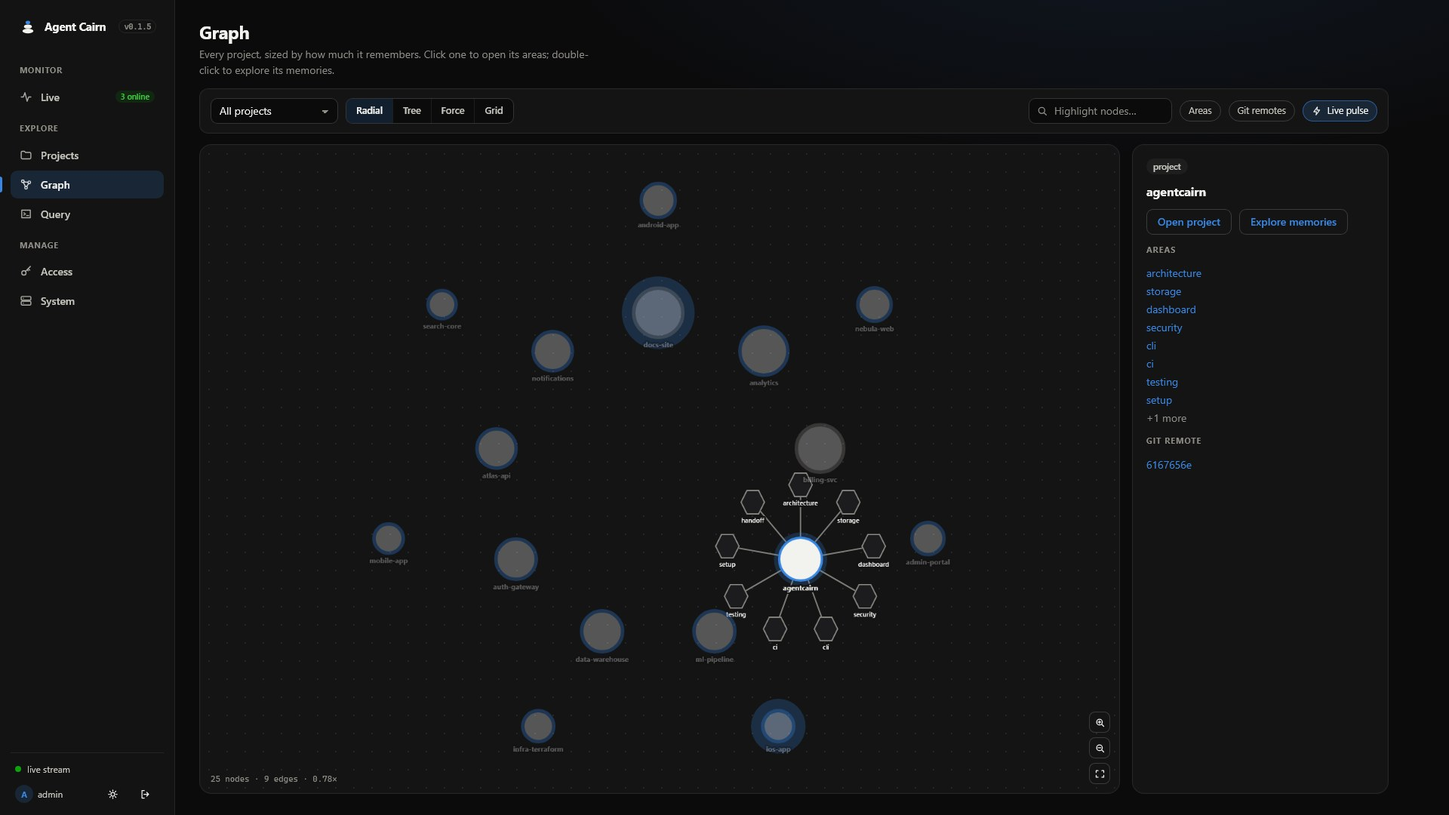
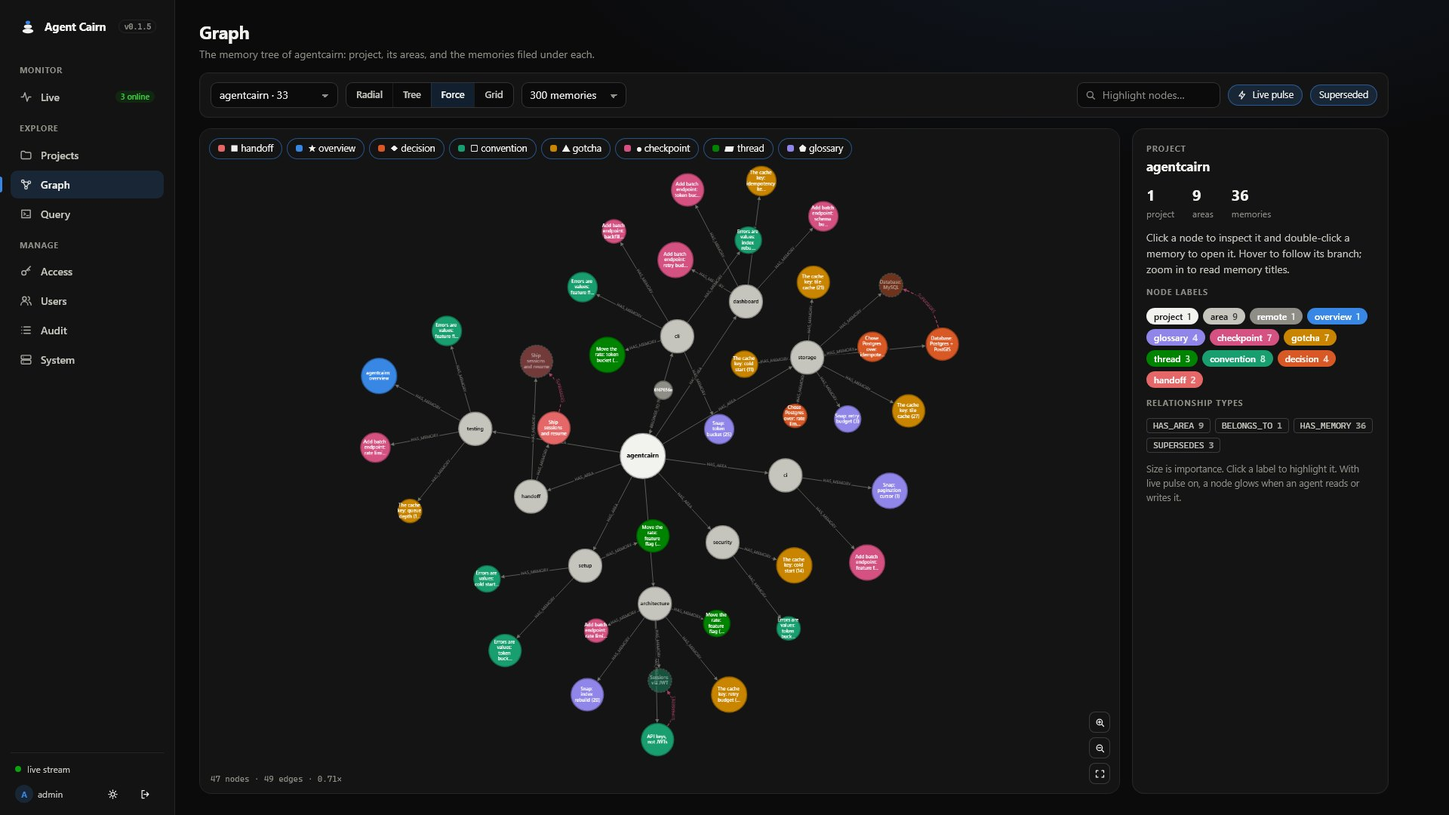
Neo4j-style graph, handoff without an entry limit, init message only when something is missing

diff --git a/packages/mcp-server/ui/js/views/graph.js b/packages/mcp-server/ui/js/views/graph.js
@@ -8,7 +8,6 @@ const KIND_VAR = { handoff: '--s8', overview: '--s1', decision: '--s2', conventi
 const KIND_SHAPE = { handoff: 'octagon', overview: 'star', decision: 'diamond', convention: 'round-rectangle', gotcha: 'triangle', checkpoint: 'ellipse', thread: 'round-tag', glossary: 'pentagon' }
 const KIND_GLYPH = { handoff: '◼', overview: '★', decision: '◆', convention: '▢', gotcha: '▲', checkpoint: '●', thread: '▰', glossary: '⬟' }
 const WRITE_TOOLS = new Set(['cairn_remember', 'cairn_checkpoint', 'cairn_handoff', 'cairn_forget'])
-const LABEL_ZOOM = 1.15
 
 const css = name => getComputedStyle(document.documentElement).getPropertyValue(name).trim()
 
@@ -23,35 +22,59 @@ function loadCytoscape() {
   })
 }
 
+/** Black or white caption, whichever reads better on this fill. */
+function inkOn(color) {
+  const m = /^#?([0-9a-f]{6})$/i.exec(color.trim())
+  if (!m) return '#ffffff'
+  const [r, g, b] = [0, 2, 4].map(i => parseInt(m[1].slice(i, i + 2), 16) / 255).map(c => (c <= 0.03928 ? c / 12.92 : ((c + 0.055) / 1.055) ** 2.4))
+  return 0.2126 * r + 0.7152 * g + 0.0722 * b > 0.3 ? '#141415' : '#ffffff'
+}
+/** The fill colour of a kind, project or area: what the chips in the side panel use too. */
+export function nodeColor(type, kind) {
+  if (type === 'project') return css('--text')
+  if (type === 'area') return css('--text-2')
+  if (type === 'remote') return css('--muted')
+  return css(KIND_VAR[kind] ?? '--s1')
+}
+/** Mixes two #rrggbb colours (cytoscape does not understand color-mix). */
+function mix(a, b, amount) {
+  const p = c => [1, 3, 5].map(i => parseInt(c.replace('#', '').padEnd(6, '0').slice(i - 1, i + 1), 16))
+  const [x, y] = [p(a), p(b)]
+  return `#${x.map((v, i) => Math.round(v + (y[i] - v) * amount).toString(16).padStart(2, '0')).join('')}`
+}
+const shorten = (text, max) => (text.length > max ? `${text.slice(0, max - 1).trimEnd()}…` : text)
+
 function stylesheet() {
-  const text = css('--text')
   const surface = css('--surface')
-  const axis = css('--axis')
   const muted = css('--muted')
   const accent = css('--s1')
   const pink = css('--s5')
+  const page = css('--page')
+  const circle = (type, kind) => {
+    const fill = nodeColor(type, kind)
+    return { 'background-color': fill, color: type === 'project' || type === 'area' ? page : inkOn(fill), 'border-color': mix(fill, type === 'project' || type === 'area' ? page : '#000000', 0.3) }
+  }
   return [
-    { selector: 'node', style: { 'font-size': 11, color: text, 'font-family': css('--sans'), 'text-valign': 'bottom', 'text-margin-y': 6, 'text-wrap': 'ellipsis', 'text-max-width': 130, 'text-outline-color': surface, 'text-outline-width': 3, 'border-width': 0, 'overlay-opacity': 0, 'underlay-color': accent, 'underlay-opacity': 0, 'underlay-padding': 6, 'underlay-shape': 'ellipse', label: '' } },
-    { selector: 'node[type="project"]', style: { label: 'data(label)', shape: 'ellipse', width: 64, height: 64, 'background-color': text, 'border-width': 6, 'border-color': accent, 'font-size': 13, 'font-weight': 700, 'text-max-width': 180, 'text-margin-y': 8, 'z-index': 10 } },
-    { selector: 'node[type="area"]', style: { label: 'data(label)', shape: 'hexagon', width: 40, height: 40, 'background-color': css('--raised'), 'border-width': 2, 'border-color': muted, 'font-weight': 600, 'z-index': 5 } },
-    { selector: 'node[type="remote"]', style: { shape: 'round-rectangle', width: 14, height: 14, 'background-color': muted, 'font-size': 10, color: muted } },
-    { selector: 'node[type="memory"]', style: { width: 'mapData(importance, 1, 5, 15, 32)', height: 'mapData(importance, 1, 5, 15, 32)', 'border-width': 1.5, 'border-color': surface } },
-    ...KINDS.map(kind => ({ selector: `node[kind="${kind}"]`, style: { 'background-color': css(KIND_VAR[kind]), shape: KIND_SHAPE[kind] } })),
-    { selector: 'node[status="superseded"]', style: { opacity: 0.42, 'border-style': 'dashed', 'border-color': muted, 'border-width': 2 } },
-    { selector: 'node.lbl', style: { label: 'data(label)' } },
-    { selector: 'edge', style: { width: 1.2, 'line-color': axis, 'curve-style': 'bezier', opacity: 0.85 } },
-    { selector: 'edge[type="HAS_AREA"]', style: { width: 2.4, 'line-color': muted } },
-    { selector: 'edge[type="BELONGS_TO"]', style: { 'line-style': 'dotted', 'line-color': muted } },
-    { selector: 'edge[type="SUPERSEDES"]', style: { 'line-style': 'dashed', 'line-color': pink, 'target-arrow-shape': 'triangle', 'target-arrow-color': pink, 'arrow-scale': 1.1, width: 1.8, 'curve-style': 'unbundled-bezier' } },
-    { selector: '.dim', style: { opacity: 0.1 } },
-    { selector: '.match', style: { 'border-width': 4, 'border-color': css('--warn-text'), label: 'data(label)' } },
+    { selector: 'node', style: { shape: 'ellipse', label: 'data(caption)', 'font-size': 9, 'font-weight': 600, color: '#fff', 'font-family': css('--sans'), 'text-valign': 'center', 'text-halign': 'center', 'text-wrap': 'wrap', 'text-max-width': 46, 'line-height': 1.15, 'min-zoomed-font-size': 7, 'border-width': 2, 'overlay-opacity': 0, 'underlay-color': accent, 'underlay-opacity': 0, 'underlay-padding': 6, 'underlay-shape': 'ellipse' } },
+    { selector: 'node[type="project"]', style: { ...circle('project'), width: 84, height: 84, 'font-size': 12, 'font-weight': 700, 'text-max-width': 70, 'z-index': 10 } },
+    { selector: 'node[type="area"]', style: { ...circle('area'), width: 62, height: 62, 'font-size': 10, 'text-max-width': 52, 'z-index': 5 } },
+    { selector: 'node[type="remote"]', style: { ...circle('remote'), width: 34, height: 34, 'font-size': 8, 'text-max-width': 30 } },
+    { selector: 'node[type="memory"]', style: { width: 'mapData(importance, 1, 5, 44, 66)', height: 'mapData(importance, 1, 5, 44, 66)', 'text-max-width': 48 } },
+    ...KINDS.map(kind => ({ selector: `node[kind="${kind}"]`, style: circle('memory', kind) })),
+    { selector: 'node[status="superseded"]', style: { opacity: 0.45, 'border-style': 'dashed', 'border-color': muted, 'border-width': 2 } },
+    { selector: 'edge', style: { width: 1.1, 'line-color': muted, opacity: 0.75, 'curve-style': 'bezier', 'target-arrow-shape': 'triangle', 'target-arrow-color': muted, 'arrow-scale': 0.8, label: 'data(type)', 'font-size': 8, color: muted, 'font-family': css('--sans'), 'text-rotation': 'autorotate', 'text-background-color': surface, 'text-background-opacity': 1, 'text-background-padding': 2, 'min-zoomed-font-size': 8, 'text-margin-y': -1 } },
+    { selector: 'edge[type="BELONGS_TO"]', style: { 'line-style': 'dotted' } },
+    { selector: 'edge[type="SUPERSEDES"]', style: { 'line-style': 'dashed', 'line-color': pink, 'target-arrow-color': pink, color: pink, width: 1.6, 'curve-style': 'unbundled-bezier' } },
+    { selector: '.dim', style: { opacity: 0.12 } },
+    { selector: '.match', style: { 'border-width': 4, 'border-color': css('--warn-text'), 'underlay-color': css('--warn-text'), 'underlay-opacity': 0.25, 'underlay-padding': 7 } },
     { selector: '.hidden', style: { display: 'none' } },
     { selector: '.collapsed', style: { display: 'none' } },
-    { selector: 'node[type="project"].sized', style: { width: 'mapData(memories, 0, 60, 40, 100)', height: 'mapData(memories, 0, 60, 40, 100)', 'font-size': 12, 'text-max-width': 120 } },
-    { selector: 'node[type="project"].quiet', style: { 'border-color': muted, opacity: 0.78 } },
-    { selector: 'node[type="project"].away', style: { opacity: 0.3 } },
-    { selector: 'node[type="project"].open', style: { 'border-color': css('--s3'), 'underlay-opacity': 0.14, 'underlay-padding': 12 } },
-    { selector: ':selected', style: { 'border-width': 4, 'border-color': accent, 'underlay-opacity': 0.22, 'underlay-padding': 9, label: 'data(label)' } },
+    { selector: 'node[type="project"].sized', style: { width: 'mapData(memories, 0, 120, 104, 160)', height: 'mapData(memories, 0, 120, 104, 160)', 'font-size': 12, 'text-max-width': 90 } },
+    { selector: 'node[type="project"].quiet', style: { opacity: 0.6 } },
+    { selector: 'node[type="project"].away', style: { opacity: 0.25 } },
+    { selector: 'node[type="project"].open', style: { 'underlay-opacity': 0.16, 'underlay-padding': 12 } },
+    { selector: ':selected', style: { 'border-width': 3, 'border-color': accent, 'underlay-opacity': 0.28, 'underlay-padding': 9 } },
+    { selector: 'edge:selected', style: { width: 2.2, 'line-color': accent, 'target-arrow-color': accent, opacity: 1 } },
   ]
 }
 
@@ -60,12 +83,12 @@ function layoutOptions(cy, name, overview = false) {
   const roots = cy.nodes('[type="project"]')
   switch (name) {
     case 'radial':
-      if (overview) return { name: 'concentric', concentric: n => n.data('memories') ?? 0, levelWidth: () => 25, minNodeSpacing: 70, spacingFactor: 1.2, avoidOverlap: true, padding: 40, animate: false }
+      if (overview) return { name: 'concentric', concentric: n => n.data('memories') ?? 0, levelWidth: () => 25, minNodeSpacing: 90, spacingFactor: 1.3, avoidOverlap: true, padding: 40, animate: false }
       return { name: 'breadthfirst', roots, circle: true, directed: false, spacingFactor: 1.05, avoidOverlap: true, padding: 40, animate: false }
     case 'tree':
       return { name: 'breadthfirst', roots, circle: false, directed: false, spacingFactor: 1.15, avoidOverlap: true, padding: 40, animate: false }
     case 'force':
-      return { name: 'cose', animate: false, randomize: true, nodeRepulsion: 12000, idealEdgeLength: 90, nodeOverlap: 24, gravity: 0.45, numIter: 1200, padding: 40 }
+      return { name: 'cose', animate: false, randomize: true, nodeRepulsion: 16000, idealEdgeLength: 110, nodeOverlap: 30, gravity: 0.35, numIter: 1200, nodeDimensionsIncludeLabels: false, padding: 40 }
     default:
       return { name: 'grid', animate: false, padding: 40, avoidOverlap: true }
   }
@@ -78,7 +101,7 @@ const QUIET_AFTER_DAYS = 21
 export async function mount(container, { query, navigate }) {
   const [{ projects }] = await Promise.all([api('projects'), loadCytoscape()])
   let project = query.project ?? ''
-  let layoutName = 'radial'
+  let layoutName = query.project ? 'force' : 'radial'
   let limit = 300
   let pulseOn = true
   let showSuperseded = true
@@ -160,7 +183,8 @@ export async function mount(container, { query, navigate }) {
   )
 
   // ---- graph ---------------------------------------------------------------
-  const element = n => ({ group: 'nodes', data: { ...n.data, mid: n.data.id, id: n.id, label: n.label, type: n.type } })
+  const caption = n => (n.type === 'project' ? shorten(n.label, 18) : n.type === 'area' ? shorten(n.label, 14) : n.type === 'remote' ? shorten(n.label, 8) : shorten(n.label, 30))
+  const element = n => ({ group: 'nodes', data: { ...n.data, mid: n.data.id, id: n.id, label: n.label, caption: caption(n), type: n.type } })
   const edgeEl = e => ({ group: 'edges', data: { id: e.id, source: e.source, target: e.target, type: e.type } })
 
   function runLayout(doFit) {
@@ -182,18 +206,13 @@ export async function mount(container, { query, navigate }) {
     const edges = cy.edges().filter(e => shown(e.source()) && shown(e.target())).length
     hudEl.textContent = `${nodes} nodes · ${edges} edges · ${cy.zoom().toFixed(2)}×`
   }
-  function syncLabels() {
-    if (!cy) return
-    const show = cy.zoom() >= LABEL_ZOOM
-    cy.nodes('[type="memory"]').toggleClass('lbl', show)
-  }
 
   /** The areas of a project fan out around it; everything else stays put. */
   function expand(node, animate = true) {
     if (node.data('type') !== 'project') return
     const areas = node.outgoers('node[type="area"]')
     const center = node.position()
-    const radius = 64 + areas.length * 7
+    const radius = 84 + areas.length * 8
     areas.forEach((a, i) => {
       const angle = (2 * Math.PI * i) / Math.max(areas.length, 1) - Math.PI / 2
       const spot = { x: center.x + radius * Math.cos(angle), y: center.y + radius * Math.sin(angle) }
@@ -294,11 +313,10 @@ export async function mount(container, { query, navigate }) {
       if (search.input.value.trim()) return
       const around = e.target.closedNeighborhood()
       cy.elements().not(around).addClass('dim')
-      around.nodes('[type="memory"]').addClass('lbl')
     })
-    cy.on('mouseout', 'node', () => { if (!search.input.value.trim()) { cy.elements().removeClass('dim'); syncLabels() } })
+    cy.on('mouseout', 'node', () => { if (!search.input.value.trim()) { cy.elements().removeClass('dim') } })
     cy.on('dbltap', 'node[type="memory"]', e => openMemory(project, e.target.data('mid'), navigate))
-    cy.on('zoom', debounce(() => { syncLabels(); hud() }, 60))
+    cy.on('zoom', debounce(hud, 60))
 
     drawSide(null, graph)
     if (!project && query.focus) {
@@ -333,7 +351,7 @@ export async function mount(container, { query, navigate }) {
           const parent = graph.edges.map(e => (e.target === n.id ? e.source : e.source === n.id ? e.target : null)).find(id => id && cy.getElementById(id).nonempty())
           const origin = parent ? cy.getElementById(parent).position() : { x: cy.width() / 2, y: cy.height() / 2 }
           fresh.push(cy.add({ ...element(n), position: { x: origin.x + (Math.random() - 0.5) * 80, y: origin.y + (Math.random() - 0.5) * 80 } }))
-        } else existing.data({ ...n.data, mid: n.data.id, label: n.label })
+        } else existing.data({ ...n.data, mid: n.data.id, label: n.label, caption: caption(n) })
       }
       cy.nodes().forEach(n => { if (!incoming.has(n.id())) n.remove() })
       const ids = new Set(graph.edges.map(e => e.id))
@@ -350,7 +368,6 @@ export async function mount(container, { query, navigate }) {
       for (const n of fresh) setTimeout(() => pulse(n), 650)
     }
     applyFilters()
-    syncLabels()
     hud()
   }
 
@@ -375,6 +392,47 @@ export async function mount(container, { query, navigate }) {
     return groups
   }
 
+  /** Like Neo4j Browser's overview: one coloured pill per node label and one per relationship type. */
+  let focusedLabel = null
+  function highlightLabel(name) {
+    if (!cy) return
+    focusedLabel = focusedLabel === name ? null : name
+    cy.batch(() => {
+      cy.elements().removeClass('dim')
+      if (!focusedLabel) return
+      const hits = cy.nodes().filter(n => (n.data('type') === 'memory' ? n.data('kind') : n.data('type')) === focusedLabel)
+      cy.elements().not(hits).addClass('dim')
+    })
+    drawSide(null)
+  }
+  function labelChips() {
+    if (!cy) return []
+    const counts = new Map()
+    for (const n of cy.nodes()) {
+      const name = n.data('type') === 'memory' ? n.data('kind') : n.data('type')
+      const entry = counts.get(name) ?? { n: 0, type: n.data('type'), kind: n.data('kind') }
+      entry.n += 1
+      counts.set(name, entry)
+    }
+    return [...counts].map(([name, c]) => {
+      const fill = nodeColor(c.type, c.kind)
+      return h('button', { type: 'button', class: 'nlabel', 'aria-pressed': String(focusedLabel === name), style: { background: fill, color: inkOn(fill) }, onclick: () => highlightLabel(name) }, name, h('span', { class: 'n' }, fmt.int(c.n)))
+    })
+  }
+  function relationshipChips() {
+    if (!cy) return []
+    const counts = new Map()
+    for (const e of cy.edges()) counts.set(e.data('type'), (counts.get(e.data('type')) ?? 0) + 1)
+    return [...counts].map(([name, n]) => h('span', { class: 'rlabel' }, name, h('span', { class: 'n' }, fmt.int(n))))
+  }
+
+  /** The node's own fields, the way Neo4j Browser lists properties. */
+  function propertyTable(d) {
+    const skip = new Set(['id', 'mid', 'label', 'caption', 'type', 'memories', 'areas'])
+    const rows = [['id', d.mid], ...Object.entries(d).filter(([k, v]) => !skip.has(k) && v !== null && v !== undefined && v !== '')]
+    return h('table', { class: 'props' }, h('tbody', null, rows.map(([k, v]) => h('tr', null, h('th', null, k), h('td', null, typeof v === 'object' ? JSON.stringify(v) : String(v))))))
+  }
+
   function drawSide(node, graph) {
     if (!node) {
       const counts = cy ? { project: cy.nodes('[type="project"]').length, area: cy.nodes('[type="area"]').length, memory: cy.nodes('[type="memory"]').length } : {}
@@ -384,20 +442,17 @@ export async function mount(container, { query, navigate }) {
           graph?.truncated && h('div', { class: 'callout warn' }, `Showing the ${limit} most important and recent memories. Raise the limit to see more.`),
           h('div', { class: 'row' }, ...Object.entries(counts).filter(([, n]) => n > 0).map(([k, n]) => h('div', { class: 'stat', style: { marginRight: '14px' } }, h('b', null, fmt.int(n)), h('span', null, k === 'memory' ? 'memories' : `${k}${n === 1 ? '' : 's'}`)))),
           h('p', { class: 'dim', style: { margin: 0 } }, project ? 'Click a node to inspect it and double-click a memory to open it. Hover to follow its branch; zoom in to read memory titles.' : 'Click a project to open its areas and double-click it to explore its memories. Bigger bubbles remember more; faded ones have been quiet for three weeks. Use Areas to open them all.'),
-          h('h3', null, 'How to read it'),
-          h('div', { class: 'legend-list' },
-            h('div', null, h('span', { class: 'g' }, '◯'), 'project: the root'),
-            h('div', null, h('span', { class: 'g' }, '⬢'), 'area: a branch of the project'),
-            ...(project ? KINDS.map(k => h('div', { class: `k-${k}` }, h('span', { class: 'g', style: { color: 'var(--k)' } }, KIND_GLYPH[k]), k)) : [h('div', null, h('span', { class: 'g', style: { opacity: 0.5 } }, '◯'), 'faded project: nothing new in three weeks')]),
-            ...(project ? [h('div', null, h('span', { class: 'g', style: { opacity: 0.45 } }, '◆'), 'faded, dashed: superseded'), h('div', null, h('span', { class: 'g', style: { color: 'var(--s5)' } }, '⇢'), 'newer replaces older')] : []),
-          ),
-          h('p', { class: 'hint', style: { margin: 0 } }, project ? 'Size is importance. With live pulse on, a node glows when an agent reads or writes it.' : 'Bubble size is how many memories a project holds. With live pulse on, a project glows when an agent reads or writes it.'),
+          h('h3', null, 'Node labels'),
+          h('div', { class: 'chips' }, ...labelChips()),
+          h('h3', null, 'Relationship types'),
+          h('div', { class: 'chips' }, ...relationshipChips()),
+          h('p', { class: 'hint', style: { margin: 0 } }, project ? 'Size is importance. Click a label to highlight it. With live pulse on, a node glows when an agent reads or writes it.' : 'Bubble size is how many memories a project holds; faded ones are quiet. With live pulse on, a project glows when an agent reads or writes it.'),
         ),
       )
     }
     const d = node.data()
     const rows = [
-      h('div', { class: 'row tight' }, h('span', { class: 'badge' }, d.type), d.kind && h('span', { class: `kind k-${d.kind}` }, d.kind), d.status === 'superseded' && h('span', { class: 'badge auth' }, 'superseded')),
+      h('div', { class: 'row tight' }, h('span', { class: 'nlabel static', style: { background: nodeColor(d.type, d.kind), color: inkOn(nodeColor(d.type, d.kind)) } }, d.kind ?? d.type), d.status === 'superseded' && h('span', { class: 'badge auth' }, 'superseded')),
       h('h2', { style: { fontSize: '16px', overflowWrap: 'anywhere', lineHeight: 1.35 } }, d.label),
     ]
     if (d.type === 'memory') {
@@ -409,6 +464,7 @@ export async function mount(container, { query, navigate }) {
     } else if (d.type === 'remote') {
       rows.push(h('div', { class: 'dim' }, 'A git remote that maps to this project, stored as a hash.'), h('div', { class: 'mono muted' }, d.hash))
     }
+    rows.push(h('h3', null, 'Properties'), propertyTable(d))
     for (const [label, others] of relations(node)) {
       rows.push(h('h3', null, label), h('div', { class: 'stack', style: { gap: '3px' } }, ...others.slice(0, 8).map(other => h('a', { href: '#', onclick: ev => { ev.preventDefault(); other.select(); select(other); cy.animate({ center: { eles: other } }, { duration: 250 }) } }, other.data('label'))), others.length > 8 && h('span', { class: 'muted' }, `+${others.length - 8} more`)))
     }

diff --git a/packages/cli/src/commands/init.ts b/packages/cli/src/commands/init.ts
@@ -18,6 +18,18 @@ export interface InitFlags {
   mcpJson?: boolean
 }
 
+/** What to tell the person to do next, from what init could see (it never claims a step is missing that is not). */
+export function nextSteps(state: { registered: boolean; wroteMcpJson: boolean; envSet: boolean }): string[] {
+  const restart = 'Next: restart Claude Code in this folder so the hooks load, and approve the "cairn" server if it asks. Run `cairn doctor` to check.'
+  if (state.wroteMcpJson && !state.registered && !state.envSet) {
+    return [
+      'Next: .mcp.json reads CAIRN_URL and CAIRN_TOKEN from the environment Claude Code starts in, and they are not set in this shell.',
+      'Set them there, then restart Claude Code here and approve the "cairn" server. Run `cairn doctor` to verify.',
+    ]
+  }
+  return [restart]
+}
+
 const read = (file: string) => readFile(file, 'utf8').catch(() => null)
 
 async function write(file: string, content: string): Promise<void> {
@@ -85,12 +97,15 @@ export async function runInit(projectIdArg: string | undefined, flags: InitFlags
 
   const identity = { projectId: result.projectId }
   const mcpFile = join(local.dir, '.mcp.json')
-  if (claudeRegistration().url && !flags.mcpJson) {
+  const registered = Boolean(claudeRegistration().url)
+  let wroteMcpJson = false
+  if (registered && !flags.mcpJson) {
     // A project .mcp.json named "cairn" would shadow the user-level server and needs CAIRN_URL and
     // CAIRN_TOKEN in the OS environment, which a one-line install does not set.
     out('Skipped .mcp.json: the cairn server is already registered for every project (claude mcp add --scope user). Use --mcp-json to commit one for your team.')
   } else {
     await write(mcpFile, mergeMcpConfig(await read(mcpFile), identity))
+    wroteMcpJson = true
     out(`Wrote ${mcpFile} (server entry; URL and token come from CAIRN_URL and CAIRN_TOKEN)`)
   }
 
@@ -114,6 +129,5 @@ export async function runInit(projectIdArg: string | undefined, flags: InitFlags
   out(`Updated ${mdFile}`)
 
   out('')
-  out('Next: make sure CAIRN_URL and CAIRN_TOKEN are set in the environment Claude Code runs in,')
-  out('then restart Claude Code here and approve the "cairn" server. Run `cairn doctor` to verify.')
+  for (const line of nextSteps({ registered, wroteMcpJson, envSet: Boolean(process.env.CAIRN_URL && process.env.CAIRN_TOKEN) })) out(line)
 }

diff --git a/packages/mcp-server/ui/css/app.css b/packages/mcp-server/ui/css/app.css
@@ -269,7 +269,7 @@ textarea { font-family: var(--mono); font-size: 13px; width: 100%; resize: verti
 .graph-page { display: flex; flex-direction: column; height: calc(100vh - 56px); min-height: 560px; }
 .graph-layout { display: grid; grid-template-columns: minmax(0, 1fr) 340px; gap: 16px; flex: 1; min-height: 0; }
 .canvas-wrap { position: relative; min-height: 0; border-radius: var(--r-lg); overflow: hidden; border: 1px solid var(--border); background-color: var(--surface); box-shadow: var(--shadow-sm); }
-#cy { position: absolute; inset: 0; background-image: radial-gradient(var(--grid) 1px, transparent 1px); background-size: 24px 24px; }
+#cy { position: absolute; inset: 0; background: var(--surface); }
 .canvas-overlay { position: absolute; z-index: 5; }
 .canvas-overlay.tl { left: 12px; top: 12px; right: 70px; display: flex; flex-wrap: wrap; gap: 6px; }
 .canvas-overlay.tl .chip { background: color-mix(in srgb, var(--surface) 88%, transparent); backdrop-filter: blur(6px); }
@@ -385,3 +385,15 @@ textarea { font-family: var(--mono); font-size: 13px; width: 100%; resize: verti
 .scope summary { cursor: pointer; color: var(--dim); font-size: 12.5px; }
 .scope[open] summary { color: var(--text); }
 .tbl .sub { display: block; font-size: 11.5px; color: var(--muted); margin-top: 2px; }
+
+/* graph overview pills and properties, after Neo4j Browser */
+.chips { display: flex; flex-wrap: wrap; gap: 6px; }
+.nlabel { display: inline-flex; align-items: center; gap: 6px; border: 0; border-radius: 999px; padding: 3px 10px; font: 600 12px var(--sans); cursor: pointer; }
+.nlabel.static { cursor: default; }
+.nlabel .n, .rlabel .n { font-weight: 500; opacity: 0.8; }
+.nlabel[aria-pressed="true"] { outline: 2px solid var(--accent); outline-offset: 2px; }
+.rlabel { display: inline-flex; align-items: center; gap: 6px; border: 1px solid var(--border-strong); border-radius: 4px; padding: 2px 8px; font: 11.5px var(--mono); color: var(--text-2); }
+.props { width: 100%; border-collapse: collapse; font-size: 12.5px; }
+.props th { text-align: left; font: 500 11.5px var(--mono); color: var(--muted); padding: 5px 10px 5px 0; vertical-align: top; white-space: nowrap; }
+.props td { padding: 5px 0; overflow-wrap: anywhere; border-top: 1px solid var(--border); }
+.props tr:first-child td { border-top: 0; }

diff --git a/packages/cli/test/init.test.ts b/packages/cli/test/init.test.ts
@@ -1,0 +1,22 @@
+import { describe, expect, it } from 'vitest'
+import { nextSteps } from '../src/commands/init.js'
+
+describe('what init tells you to do next', () => {
+  it('only asks to restart when the server is registered or the variables are set', () => {
+    for (const state of [
+      { registered: true, wroteMcpJson: false, envSet: false },
+      { registered: true, wroteMcpJson: true, envSet: false },
+      { registered: false, wroteMcpJson: true, envSet: true },
+    ]) {
+      const text = nextSteps(state).join('\n')
+      expect(text, JSON.stringify(state)).toContain('restart Claude Code')
+      expect(text, JSON.stringify(state)).not.toContain('not set')
+    }
+  })
+
+  it('asks for the variables only when .mcp.json needs them and they are missing', () => {
+    const text = nextSteps({ registered: false, wroteMcpJson: true, envSet: false }).join('\n')
+    expect(text).toContain('CAIRN_URL and CAIRN_TOKEN')
+    expect(text).toContain('not set')
+  })
+})

diff --git a/packages/mcp-server/src/tools.ts b/packages/mcp-server/src/tools.ts
@@ -88,7 +88,7 @@ const kindSchema = z.enum(MEMORY_KINDS)
 // handoffs are written with cairn_handoff, which also retires the one it replaces
 const writableKindSchema = z.enum(['overview', 'decision', 'convention', 'gotcha', 'checkpoint', 'thread', 'glossary'])
 const workspaceSchema = z
-  .object({ branch: z.string().optional(), head: z.string().optional(), dirty: z.array(z.string()).max(200).optional() })
+  .object({ branch: z.string().optional(), head: z.string().optional(), dirty: z.array(z.string()).optional() })
   .optional()
   .describe('Set automatically by hooks; leave empty')
 const lines = (what: string) => z.array(z.string().min(1).max(600)).max(30).optional().describe(what)

diff --git a/packages/mcp-server/test/access.integration.test.ts b/packages/mcp-server/test/access.integration.test.ts
@@ -231,7 +231,8 @@ describe.skipIf(!process.env.NEO4J_URI)('users and sharing through the server', 
         next: ['Members panel', 'Invite page'],
         dead_ends: ['Polling for changes: too chatty'],
         from_user: 'Do not push without asking',
-        workspace: { branch: 'main', head: 'c'.repeat(40), dirty: ['ui.js'] },
+        // a merge can leave hundreds of files changed: that must never make the handoff fail
+        workspace: { branch: 'main', head: 'c'.repeat(40), dirty: ['ui.js', ...Array.from({ length: 600 }, (_, n) => `src/f${n}.ts`)] },
       })
       expect(handed.isError).toBeUndefined()
       expect(text(handed)).toContain('Handoff #')

diff --git a/CHANGELOG.md b/CHANGELOG.md
@@ -4,6 +4,11 @@ All notable changes to this project are documented here. The format follows [Kee
 
 ## [Unreleased]
 
+- `cairn init` only tells you to set CAIRN_URL and CAIRN_TOKEN when it wrote a `.mcp.json` that needs them and they are not set; otherwise it just says to restart Claude Code.
+- `cairn_handoff` no longer fails when many files are changed (a merge can touch hundreds): the uncommitted-files list has no entry limit.
+- The graph looks like the Neo4j Browser: solid coloured nodes with the caption inside, arrows with the relationship type written along them, a node-label and relationship-type overview in the side panel, and a properties table for the selected node. A single project opens in a force layout.
+- Existing projects can be given generated `prj_…` ids; old links keep working by name.
+
 ## [0.2.0] - 2026-10-20
 
 - **Handoff and resume.** Another agent, on any machine, can pick up where the last one stopped. Sessions are now recorded as they happen (the user's requests, the agent's last message, files edited, commits, uncommitted work, branch and commit), by new UserPromptSubmit, PreCompact and SessionEnd hooks plus the Stop hook. A new `handoff` memory kind and the `cairn_handoff` tool let the agent write what is done, in progress, next, blocked and tried and dropped; `cairn_resume` and `cairn resume` return everything in full. The briefing opens with where the work was left, and the SessionStart hook checks this clone against it (a commit that was never pushed, uncommitted work on another machine). Prompts and replies are filtered for secrets on the machine and again on the server; `CAIRN_SESSION_CAPTURE=meta` sends no words and `off` sends nothing. Existing projects get the new hooks by running `cairn init` again.

diff --git a/README.md b/README.md
@@ -98,7 +98,7 @@ More ways to connect, updating, uninstalling and troubleshooting are in [Using i
 | | |
 | --- | --- |
 | ![Memory graph](docs/images/graph.jpg) | ![A project's memories](docs/images/project.jpg) |
-| **Graph**: every project as a bubble sized by what it remembers; click one to open its areas, double-click to explore its memories. Quiet projects fade, and nodes glow when an agent reads or writes them. | **A project**: where the work was left, the recent sessions, and every memory, sorted newest first by default. |
+| **Graph**: in the style of the Neo4j Browser, with coloured nodes, labelled relationships, a node-label overview and a properties panel. Projects start as bubbles sized by what they remember; click one to open its areas, double-click to explore its memories. Nodes glow when an agent reads or writes them. | **A project**: where the work was left, the recent sessions, and every memory, sorted newest first by default. |
 
 ![Projects, in light mode](docs/images/projects-light.jpg)
 
